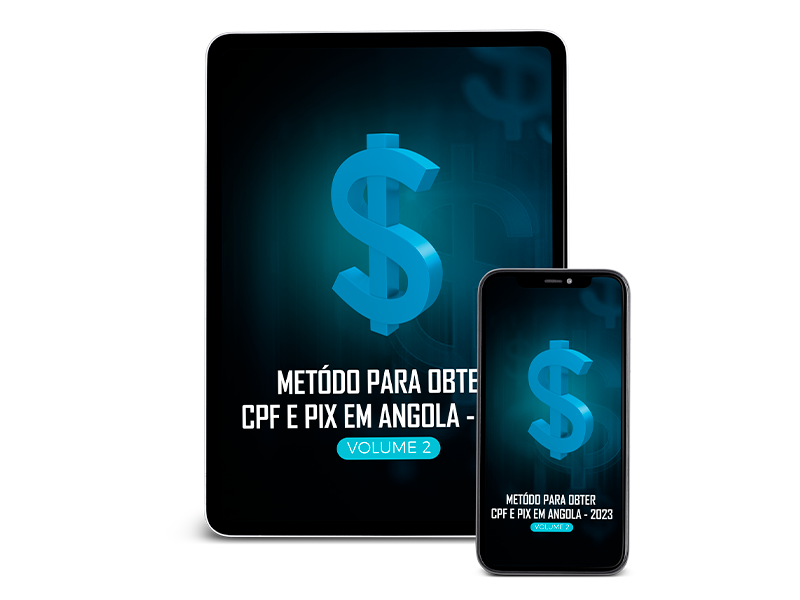
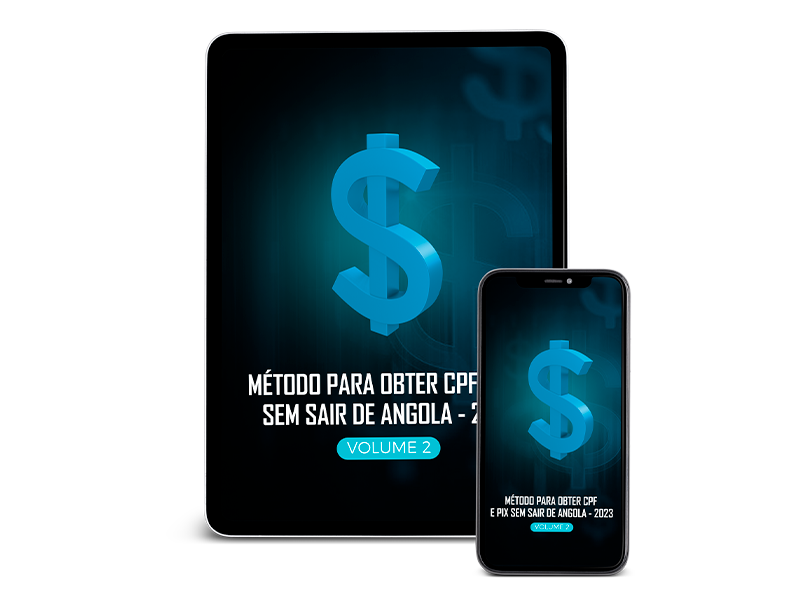
texto descrição do site, imagem inicial

Changed region(s): [[0.2812, 0.6, 0.5938, 0.72], [0.5938, 0.81, 0.7812, 0.87]]

diff --git a/index.html b/index.html
@@ -4,7 +4,7 @@
 <head>
     <meta charset="UTF-8">
     <meta name="viewport" content="width=device-width, initial-scale=1.0">
-    <meta name="description" content="eBook Como Ter PIX em Angola">
+    <meta name="description" content="Método para obter CPF e PIX sem sair de Angola - 2023 é um eBook abrangente e envolvente desenvolvido por Manuel Designer que desvenda os segredos da revolução digital financeira da actualidade, mostrando passo a passo de como abrir uma conta brasileira  mesmo morando em Angola.">
     <meta name="keywords" content="PIX, ANGOLA, CPF ANGOLA, EBOOK PIX ANGOLA, como ter pix em angola">
     <meta name="author" content="Deogracia Manuel de Castro">
     <meta name="robots" content="follow">
@@ -15,7 +15,7 @@
     <meta property="og:description" content="Saiba como ter CPF e PIX mesmo morando em Angola">
     <meta property="og:image" content="URL da imagem">
     <meta property="og:url" content="URL da página">
-    <link rel="apple-touch-icon" sizes="180x180" href="assets/icon/icon_m.png">
+    <link rel="apple-touch-icon" sizes="180x180" href="assets/img/ebook_capa.png">
     <meta name="theme-color" content="#000">
     <meta name="msapplication-TileColor" content="#000">
     <meta name="application-name" content="Ebook Como Ter PIX em Angola">
